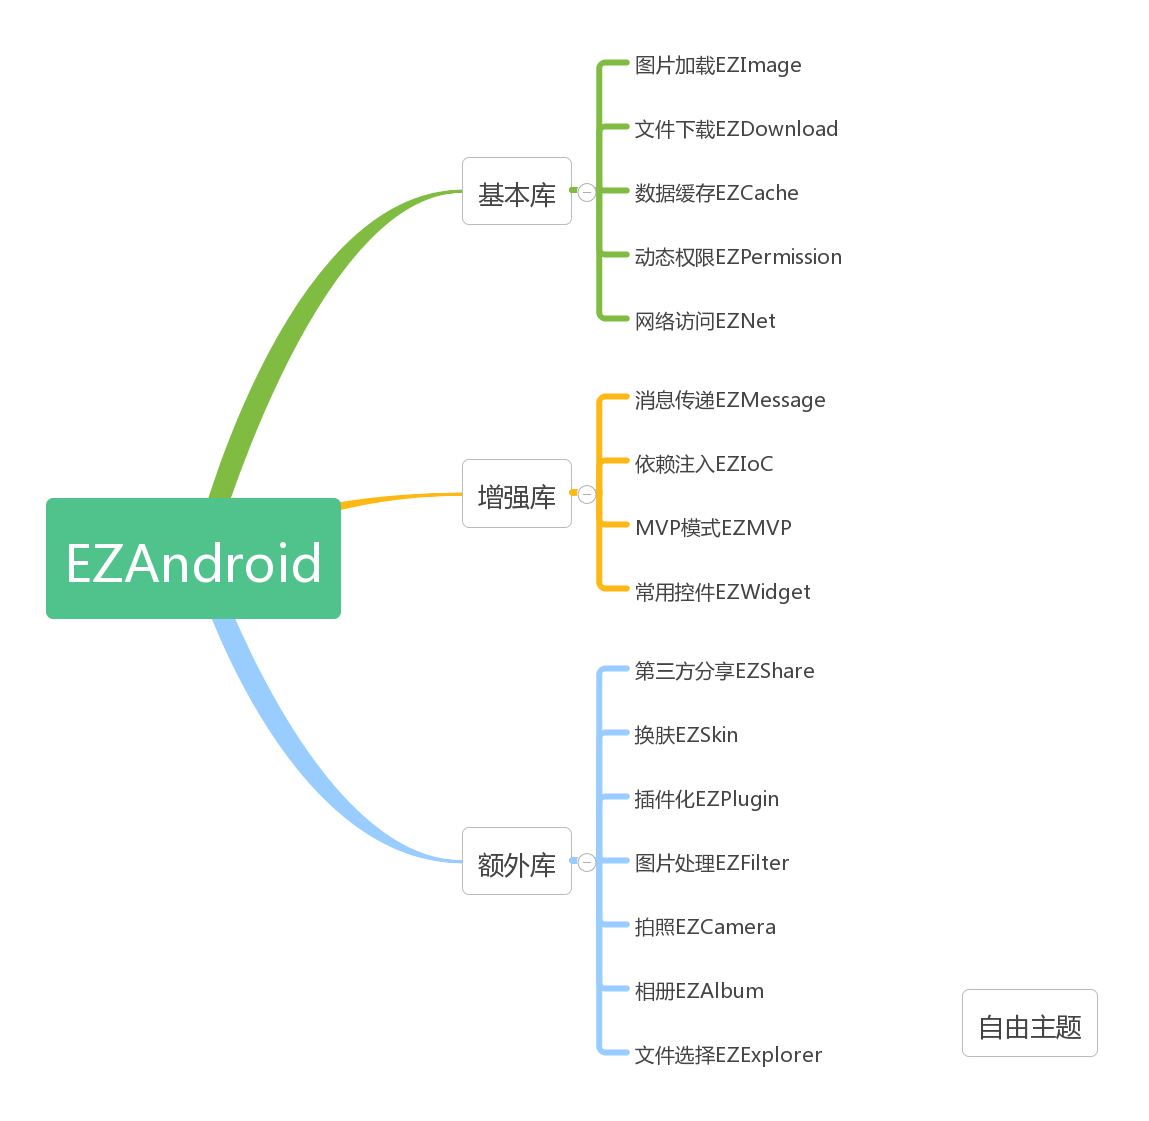
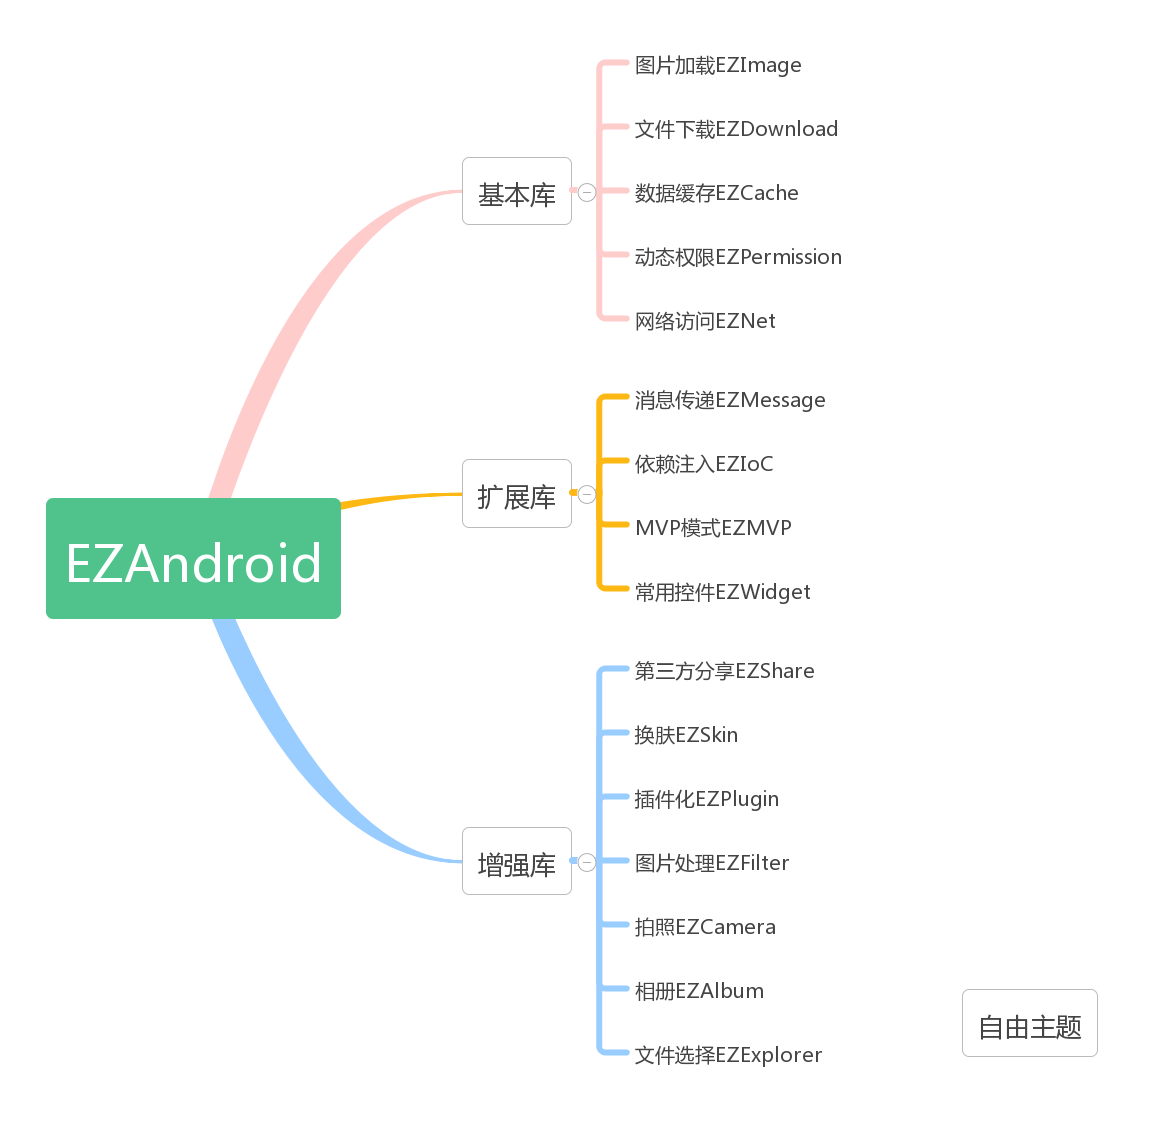
[基础库开发进度0%]:修改ReadMe

diff --git a/README.md b/README.md
@@ -1,3 +1,7 @@
 # EZAndroid
 一个轻量级，少依赖，易扩展，高性能的Android快速开发框架
-主要包含基本库，增强库，额外库三个部分，代码会逐步放出
+# 概览
+<p align="center">
+	<img src="framework.png"/>
+</p>
+主要包含基本库，扩展库，增强库三个部分，代码会逐步放出
